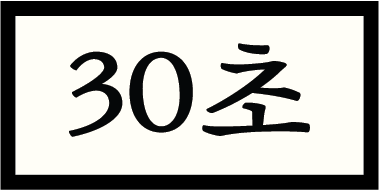
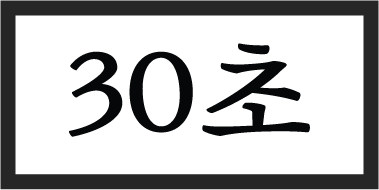
d

diff --git a/src/field.jsx b/src/field.jsx
@@ -52,7 +52,7 @@ function Field({ elRefs }) {
 
   return (
     <div className="field relative w-screen h-screen overflow-hidden">
-      <div className="absolute bg-cover inset-0 opacity-100 -z-10 pointer-events-none bg-[#fffef5]">
+      <div className="absolute bg-cover inset-0 opacity-100 -z-50 pointer-events-none bg-[#f3f2e4]">
       </div> 
       {Object.entries(questions).map(([id, q]) => {
   // Determine result text based on percentage
@@ -92,12 +92,12 @@ function Field({ elRefs }) {
               {q.explanation && (
                 Array.isArray(q.explanation)
                   ? q.explanation.map((line, index) => (
-                      <div key={index} className="px-0.5 pb-[1px] -mb-[1px] border border-[#272727] bg-[#fffef5] text-center">
+                      <div key={index} className="px-0.5 pb-[1px] -mb-[1px] border border-[#272727] bg-[#f3f2e4] text-center">
                         <p className="font-onul text-[7.3px] leading-none">{line}</p>
                       </div>
                     ))
                   : (
-                    <div className="px-0.5 pb-[1px] -mb-[1px] border border-[#272727] bg-[#fffef5] text-center">
+                    <div className="px-0.5 pb-[1px] -mb-[1px] border border-[#272727] bg-[#f3f2e4] text-center">
                       <p className="font-onul text-[7.3px] leading-none">{q.explanation}</p>
                     </div>
                   )
@@ -105,7 +105,7 @@ function Field({ elRefs }) {
             </>
           ) : (
             renderedLines.map((line, index) => (
-              <div key={index} className="px-0.5 pb-[0.8px] -mb-[1px] border border-[#272727] bg-[#fffef5] text-left">
+              <div key={index} className="px-0.5 pb-[0.8px] -mb-[1px] border border-[#272727] bg-[#f3f2e4] text-left">
                 <p className="text-[10px] leading-tight font-onul">{line}</p>
               </div>
             ))
@@ -121,7 +121,7 @@ function Field({ elRefs }) {
                 className="flex flex-col items-center relative"
               >
                 {renderedLines.map((line, idx) => (
-                  <div key={idx} className="px-0.5 pb-[0.8px] -mb-[1px] border border-[#272727] bg-[#fffef5] text-center">
+                  <div key={idx} className="px-0.5 pb-[0.8px] -mb-[1px] border border-[#272727] bg-[#f3f2e4] text-center">
                     <p className="text-[10px] leading-tight font-onul font-[900]">{line}</p>
                   </div>
                 ))}

diff --git a/src/App.jsx b/src/App.jsx
@@ -3,6 +3,7 @@ import Field from "./field.jsx";
 import BackgroundLines from "./components/BackgroundLines";
 import BgSpreadLines from "./components/BgSpreadLines.jsx"
 import PathLines from "./components/PathLines";
+import ZoomField from "./components/ZoomField.jsx";
 import Timer from "./components/timer.jsx";
 import { useQuestionStore } from "./store";
 import './index.css';
@@ -22,8 +23,19 @@ function App() {
 
   return (
     <>
-          <BgSpreadLines />
-      <BackgroundLines />
+      <div className="relative w-screen h-screen overflow-hidden">
+        <div
+          className="absolute inset-0 flex justify-center"
+          style={{ transformOrigin: "top center" }}
+        >
+          <ZoomField>
+            <BgSpreadLines />
+            <BackgroundLines />
+            <PathLines elRefs={elRefs.current} />
+            <Field elRefs={elRefs} />
+          </ZoomField>
+        </div>
+      </div>
       <div className="score absolute top-4 right-4 z-100 h-[20px] font-onul font-[900]">
         {`점수: ${percentage}%`}
       </div>
@@ -32,8 +44,6 @@ function App() {
           <Timer duration={timerDuration} />
         </div>
       )}
-      <PathLines elRefs={elRefs.current} />
-      <Field elRefs={elRefs} />
       <Calculation time={current.time || 0} k={current.k || 0} />
     </>
   );

diff --git a/src/Intro.jsx b/src/Intro.jsx
@@ -14,12 +14,12 @@ export default function Intro() {
   }
 
   return (
-    <div className="w-screen h-screen flex flex-col items-center justify-center bg-[#fffef5]">
+    <div className="w-screen h-screen flex flex-col items-center justify-center bg-[#f3f2e4]">
       <h1 className="text-4xl font-onul font-[900] mb-8">
         점프대는 언제나 점검중인 상태로 동결이다. 
         동시에 확실로 치닫는 아침 해를 희망한다.</h1>
       <button
-        className="border border-[#272727] font-onul width-[20px] px-2 py-2 text-center bg-[#fffef5] hover:invert"
+        className="border border-[#272727] font-onul width-[20px] px-2 py-2 text-center bg-[#f3f2e4] hover:invert"
         onClick={() => setStarted(true)}
       >
         점검하기

diff --git a/src/components/PathLines.jsx b/src/components/PathLines.jsx
@@ -27,7 +27,7 @@ function PathLines({ elRefs }) {
   });
 
   return (
-    <svg className="absolute inset-0 pointer-events-none w-full h-full z-10">
+    <svg className="absolute inset-0 pointer-events-none w-full h-full z-10 transition-all">
       {segments.map(({ from, to, k }, idx) => {
         const el1 = elRefs[from];
         const el2 = elRefs[to];

diff --git a/src/App.css b/src/App.css
@@ -25,8 +25,8 @@
     max-w-full
     text-[8px] font-onul
     border-[1px]
-     border-[#272727] bg-[#fffef5] text-[#272727]
-     hover:border-[#fffef5] hover:bg-[#272727] hover:text-[#fffef5];
+     border-[#272727] bg-[#eae9e1] text-[#272727]
+     hover:border-[#eae9e1] hover:bg-[#272727] hover:text-[#eae9e1];
 }
 
 .btn-text-double{
